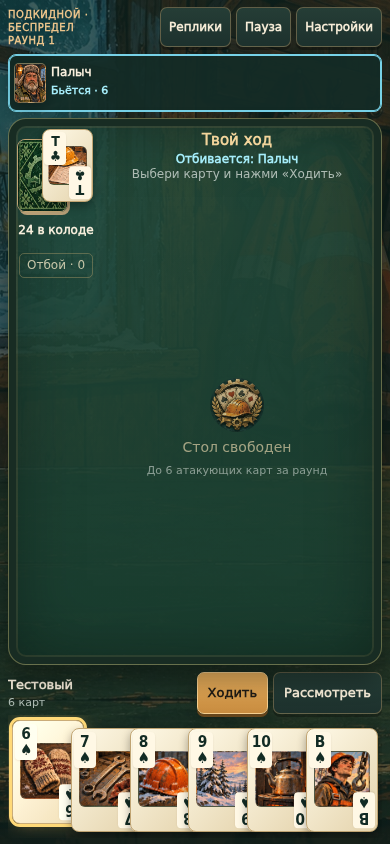
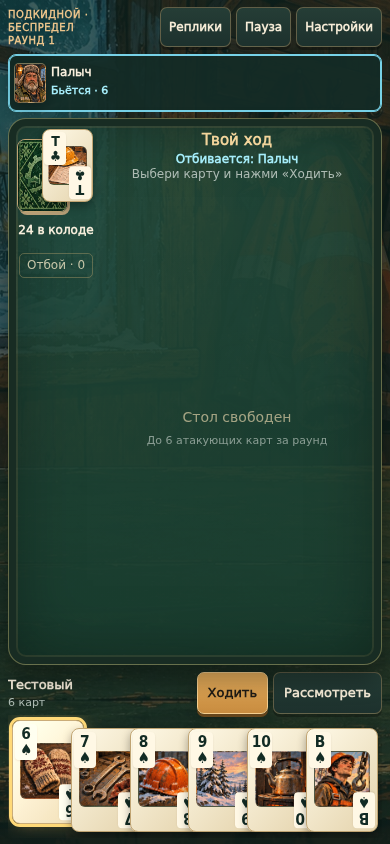
Remove decorative emblem from the empty playing table

Changed region(s): [[0.4615, 0.4313, 0.7385, 0.5853], [0.7692, 0.5545, 0.8308, 0.5853], [0.4, 0.5545, 0.4308, 0.5853]]

diff --git a/public/build/app-2b87c4432cbc4907.js b/public/build/app-2b87c4432cbc4907.js
@@ -2962,7 +2962,7 @@
       )
       .join(
         "",
-      )}</div><section class="table-zone"><aside class="stocks"><div class="stock-pile">${E.stockCount(G) > 0 ? backCard() : ""}${E.stockCount(G) > 0 ? card(G.trumpCard, { classes: "trump-show" }) : `<div class="empty-trump ${G.trump === 1 || G.trump === 2 ? "red" : "black"}" role="img" aria-label="Козырная масть ${E.SUITS[G.trump]}"><span>${E.SUITS[G.trump]}</span></div>`}</div><strong>${E.stockCount(G)} в колоде</strong><div class="discard-target" aria-label="Отбой">Отбой · ${G.discard.length}</div></aside><div class="battle"><div class="turn-label"><strong>${nameRole}<span class="defender-line">${G.defender === 0 ? (G.taking ? "Ты берёшь карты" : "Атакуют тебя") : (G.taking ? "Берёт: " : "Отбивается: ") + name(G.defender)}</span></strong><small>${paused ? "Партия на паузе" : G.phase === "defending" ? (G.actor === 0 ? "Выбери карту в руке и нажми на атакующую карту." : "Защита в процессе") : G.phase === "taking" ? "Подкидывание перед взятием" : G.phase === "adding" ? "Все атакующие могут подкинуть или завершить" : "Выбери карту и нажми «Ходить»"}</small></div><div class="pairs" data-game="${esc(G.gameId)}" data-round="${G.round}">${G.table.length ? G.table.map((pair, i) => `<div class="card-pair">${card(pair.attack, { action: G.actor === 0 && G.phase === "defending" && pair.defense == null ? "cover" : "", extra: `data-pair="${i}"`, classes: pair.defense == null ? "uncovered" : "covered" })}${pair.defense != null ? card(pair.defense, { classes: "defense-card" }) : ""}</div>`).join("") : `<div class="table-empty">${sprite("decor", 4, 4, 3, "table-emblem")}<span>Стол свободен</span><small>До ${G.limit} атакующих карт за раунд</small></div>`}</div><button data-action="talk" data-speaker="${dialog?.who ?? ""}" data-addressee="${dialog?.target ?? ""}" class="speech" aria-label="Прочитать реплику целиком" ${dialog ? "" : "hidden"}>${dialog ? avatar(G.players[dialog.who]?.npc ?? 0, emotion[dialog.who] || 0) : ""}<div><strong>${dialog ? name(dialog.who) + " → " + name(dialog.target) : ""}</strong><p id="dialog-text"></p></div></button></div><aside class="table-log"><h3>Журнал смены</h3><ol id="game-log"></ol><span class="discard-count">В отбое: ${G.discard.length}<br>Списано эффектами: ${G.effectDiscard.length}</span></aside></section><section class="human-zone ${G.defender === 0 ? "defending-player" : ""}"><div class="human-caption">${avatar(P.avatar)}<div><strong>${playerName()}</strong><small>${my.hand.length} карт</small></div><div class="game-actions">${actionButtons}${take ? button("Взять", "take", "danger") : ""}${pass ? button(G.taking ? "Готово" : "Бито", "pass", "primary") : ""}${selected != null ? button("Рассмотреть", "inspect", "small") : ""}${my.out ? '<span class="finished-note">Ты вышел. Бригада доигрывает.</span>' : ""}</div></div><div class="hand" role="group" aria-label="Твои карты" style="--hand-count:${Math.max(6, hand.length)}">${hand.map((c) => card(c, { action: "select-card", selected: c === selected, classes: canAct && !moves.some((a) => a.card === c) ? "not-playable" : "" })).join("")}</div><p class="hand-help">${canAct ? (selected == null ? "Выбери карту. Подсвечены карты с разрешённым действием." : selectedMoves.some((a) => a.type === "defend") ? "Нажми на непокрытую карту на столе, которую хочешь побить." : selectedMoves.length ? "Подтверди действие кнопкой над рукой." : "Эта карта сейчас не подходит. Выбери другую.") : "Можно рассматривать свои карты, пока коллеги ходят."}</p></section></main>`;
+      )}</div><section class="table-zone"><aside class="stocks"><div class="stock-pile">${E.stockCount(G) > 0 ? backCard() : ""}${E.stockCount(G) > 0 ? card(G.trumpCard, { classes: "trump-show" }) : `<div class="empty-trump ${G.trump === 1 || G.trump === 2 ? "red" : "black"}" role="img" aria-label="Козырная масть ${E.SUITS[G.trump]}"><span>${E.SUITS[G.trump]}</span></div>`}</div><strong>${E.stockCount(G)} в колоде</strong><div class="discard-target" aria-label="Отбой">Отбой · ${G.discard.length}</div></aside><div class="battle"><div class="turn-label"><strong>${nameRole}<span class="defender-line">${G.defender === 0 ? (G.taking ? "Ты берёшь карты" : "Атакуют тебя") : (G.taking ? "Берёт: " : "Отбивается: ") + name(G.defender)}</span></strong><small>${paused ? "Партия на паузе" : G.phase === "defending" ? (G.actor === 0 ? "Выбери карту в руке и нажми на атакующую карту." : "Защита в процессе") : G.phase === "taking" ? "Подкидывание перед взятием" : G.phase === "adding" ? "Все атакующие могут подкинуть или завершить" : "Выбери карту и нажми «Ходить»"}</small></div><div class="pairs" data-game="${esc(G.gameId)}" data-round="${G.round}">${G.table.length ? G.table.map((pair, i) => `<div class="card-pair">${card(pair.attack, { action: G.actor === 0 && G.phase === "defending" && pair.defense == null ? "cover" : "", extra: `data-pair="${i}"`, classes: pair.defense == null ? "uncovered" : "covered" })}${pair.defense != null ? card(pair.defense, { classes: "defense-card" }) : ""}</div>`).join("") : `<div class="table-empty"><span>Стол свободен</span><small>До ${G.limit} атакующих карт за раунд</small></div>`}</div><button data-action="talk" data-speaker="${dialog?.who ?? ""}" data-addressee="${dialog?.target ?? ""}" class="speech" aria-label="Прочитать реплику целиком" ${dialog ? "" : "hidden"}>${dialog ? avatar(G.players[dialog.who]?.npc ?? 0, emotion[dialog.who] || 0) : ""}<div><strong>${dialog ? name(dialog.who) + " → " + name(dialog.target) : ""}</strong><p id="dialog-text"></p></div></button></div><aside class="table-log"><h3>Журнал смены</h3><ol id="game-log"></ol><span class="discard-count">В отбое: ${G.discard.length}<br>Списано эффектами: ${G.effectDiscard.length}</span></aside></section><section class="human-zone ${G.defender === 0 ? "defending-player" : ""}"><div class="human-caption">${avatar(P.avatar)}<div><strong>${playerName()}</strong><small>${my.hand.length} карт</small></div><div class="game-actions">${actionButtons}${take ? button("Взять", "take", "danger") : ""}${pass ? button(G.taking ? "Готово" : "Бито", "pass", "primary") : ""}${selected != null ? button("Рассмотреть", "inspect", "small") : ""}${my.out ? '<span class="finished-note">Ты вышел. Бригада доигрывает.</span>' : ""}</div></div><div class="hand" role="group" aria-label="Твои карты" style="--hand-count:${Math.max(6, hand.length)}">${hand.map((c) => card(c, { action: "select-card", selected: c === selected, classes: canAct && !moves.some((a) => a.card === c) ? "not-playable" : "" })).join("")}</div><p class="hand-help">${canAct ? (selected == null ? "Выбери карту. Подсвечены карты с разрешённым действием." : selectedMoves.some((a) => a.type === "defend") ? "Нажми на непокрытую карту на столе, которую хочешь побить." : selectedMoves.length ? "Подтверди действие кнопкой над рукой." : "Эта карта сейчас не подходит. Выбери другую.") : "Можно рассматривать свои карты, пока коллеги ходят."}</p></section></main>`;
   }
   function eventView() {
     const v = F.spec(G);

diff --git a/src/main.js b/src/main.js
@@ -229,7 +229,7 @@
       )
       .join(
         "",
-      )}</div><section class="table-zone"><aside class="stocks"><div class="stock-pile">${E.stockCount(G) > 0 ? backCard() : ""}${E.stockCount(G) > 0 ? card(G.trumpCard, { classes: "trump-show" }) : `<div class="empty-trump ${G.trump === 1 || G.trump === 2 ? "red" : "black"}" role="img" aria-label="Козырная масть ${E.SUITS[G.trump]}"><span>${E.SUITS[G.trump]}</span></div>`}</div><strong>${E.stockCount(G)} в колоде</strong><div class="discard-target" aria-label="Отбой">Отбой · ${G.discard.length}</div></aside><div class="battle"><div class="turn-label"><strong>${nameRole}<span class="defender-line">${G.defender === 0 ? (G.taking ? "Ты берёшь карты" : "Атакуют тебя") : (G.taking ? "Берёт: " : "Отбивается: ") + name(G.defender)}</span></strong><small>${paused ? "Партия на паузе" : G.phase === "defending" ? (G.actor === 0 ? "Выбери карту в руке и нажми на атакующую карту." : "Защита в процессе") : G.phase === "taking" ? "Подкидывание перед взятием" : G.phase === "adding" ? "Все атакующие могут подкинуть или завершить" : "Выбери карту и нажми «Ходить»"}</small></div><div class="pairs" data-game="${esc(G.gameId)}" data-round="${G.round}">${G.table.length ? G.table.map((pair, i) => `<div class="card-pair">${card(pair.attack, { action: G.actor === 0 && G.phase === "defending" && pair.defense == null ? "cover" : "", extra: `data-pair="${i}"`, classes: pair.defense == null ? "uncovered" : "covered" })}${pair.defense != null ? card(pair.defense, { classes: "defense-card" }) : ""}</div>`).join("") : `<div class="table-empty">${sprite("decor", 4, 4, 3, "table-emblem")}<span>Стол свободен</span><small>До ${G.limit} атакующих карт за раунд</small></div>`}</div><button data-action="talk" data-speaker="${dialog?.who ?? ""}" data-addressee="${dialog?.target ?? ""}" class="speech" aria-label="Прочитать реплику целиком" ${dialog ? "" : "hidden"}>${dialog ? avatar(G.players[dialog.who]?.npc ?? 0, emotion[dialog.who] || 0) : ""}<div><strong>${dialog ? name(dialog.who) + " → " + name(dialog.target) : ""}</strong><p id="dialog-text"></p></div></button></div><aside class="table-log"><h3>Журнал смены</h3><ol id="game-log"></ol><span class="discard-count">В отбое: ${G.discard.length}<br>Списано эффектами: ${G.effectDiscard.length}</span></aside></section><section class="human-zone ${G.defender === 0 ? "defending-player" : ""}"><div class="human-caption">${avatar(P.avatar)}<div><strong>${playerName()}</strong><small>${my.hand.length} карт</small></div><div class="game-actions">${actionButtons}${take ? button("Взять", "take", "danger") : ""}${pass ? button(G.taking ? "Готово" : "Бито", "pass", "primary") : ""}${selected != null ? button("Рассмотреть", "inspect", "small") : ""}${my.out ? '<span class="finished-note">Ты вышел. Бригада доигрывает.</span>' : ""}</div></div><div class="hand" role="group" aria-label="Твои карты" style="--hand-count:${Math.max(6, hand.length)}">${hand.map((c) => card(c, { action: "select-card", selected: c === selected, classes: canAct && !moves.some((a) => a.card === c) ? "not-playable" : "" })).join("")}</div><p class="hand-help">${canAct ? (selected == null ? "Выбери карту. Подсвечены карты с разрешённым действием." : selectedMoves.some((a) => a.type === "defend") ? "Нажми на непокрытую карту на столе, которую хочешь побить." : selectedMoves.length ? "Подтверди действие кнопкой над рукой." : "Эта карта сейчас не подходит. Выбери другую.") : "Можно рассматривать свои карты, пока коллеги ходят."}</p></section></main>`;
+      )}</div><section class="table-zone"><aside class="stocks"><div class="stock-pile">${E.stockCount(G) > 0 ? backCard() : ""}${E.stockCount(G) > 0 ? card(G.trumpCard, { classes: "trump-show" }) : `<div class="empty-trump ${G.trump === 1 || G.trump === 2 ? "red" : "black"}" role="img" aria-label="Козырная масть ${E.SUITS[G.trump]}"><span>${E.SUITS[G.trump]}</span></div>`}</div><strong>${E.stockCount(G)} в колоде</strong><div class="discard-target" aria-label="Отбой">Отбой · ${G.discard.length}</div></aside><div class="battle"><div class="turn-label"><strong>${nameRole}<span class="defender-line">${G.defender === 0 ? (G.taking ? "Ты берёшь карты" : "Атакуют тебя") : (G.taking ? "Берёт: " : "Отбивается: ") + name(G.defender)}</span></strong><small>${paused ? "Партия на паузе" : G.phase === "defending" ? (G.actor === 0 ? "Выбери карту в руке и нажми на атакующую карту." : "Защита в процессе") : G.phase === "taking" ? "Подкидывание перед взятием" : G.phase === "adding" ? "Все атакующие могут подкинуть или завершить" : "Выбери карту и нажми «Ходить»"}</small></div><div class="pairs" data-game="${esc(G.gameId)}" data-round="${G.round}">${G.table.length ? G.table.map((pair, i) => `<div class="card-pair">${card(pair.attack, { action: G.actor === 0 && G.phase === "defending" && pair.defense == null ? "cover" : "", extra: `data-pair="${i}"`, classes: pair.defense == null ? "uncovered" : "covered" })}${pair.defense != null ? card(pair.defense, { classes: "defense-card" }) : ""}</div>`).join("") : `<div class="table-empty"><span>Стол свободен</span><small>До ${G.limit} атакующих карт за раунд</small></div>`}</div><button data-action="talk" data-speaker="${dialog?.who ?? ""}" data-addressee="${dialog?.target ?? ""}" class="speech" aria-label="Прочитать реплику целиком" ${dialog ? "" : "hidden"}>${dialog ? avatar(G.players[dialog.who]?.npc ?? 0, emotion[dialog.who] || 0) : ""}<div><strong>${dialog ? name(dialog.who) + " → " + name(dialog.target) : ""}</strong><p id="dialog-text"></p></div></button></div><aside class="table-log"><h3>Журнал смены</h3><ol id="game-log"></ol><span class="discard-count">В отбое: ${G.discard.length}<br>Списано эффектами: ${G.effectDiscard.length}</span></aside></section><section class="human-zone ${G.defender === 0 ? "defending-player" : ""}"><div class="human-caption">${avatar(P.avatar)}<div><strong>${playerName()}</strong><small>${my.hand.length} карт</small></div><div class="game-actions">${actionButtons}${take ? button("Взять", "take", "danger") : ""}${pass ? button(G.taking ? "Готово" : "Бито", "pass", "primary") : ""}${selected != null ? button("Рассмотреть", "inspect", "small") : ""}${my.out ? '<span class="finished-note">Ты вышел. Бригада доигрывает.</span>' : ""}</div></div><div class="hand" role="group" aria-label="Твои карты" style="--hand-count:${Math.max(6, hand.length)}">${hand.map((c) => card(c, { action: "select-card", selected: c === selected, classes: canAct && !moves.some((a) => a.card === c) ? "not-playable" : "" })).join("")}</div><p class="hand-help">${canAct ? (selected == null ? "Выбери карту. Подсвечены карты с разрешённым действием." : selectedMoves.some((a) => a.type === "defend") ? "Нажми на непокрытую карту на столе, которую хочешь побить." : selectedMoves.length ? "Подтверди действие кнопкой над рукой." : "Эта карта сейчас не подходит. Выбери другую.") : "Можно рассматривать свои карты, пока коллеги ходят."}</p></section></main>`;
   }
   function eventView() {
     const v = F.spec(G);

diff --git a/sw.js b/sw.js
@@ -1,6 +1,6 @@
 /* Network first for navigation and assets. A failed connection falls back to this exact release. */
-const BUILD = {"version":"1.7.0","id":"0c842669d4b13d93","html":"index-0c842669d4b13d93.html","js":"public/build/app-0c842669d4b13d93.js","css":"public/build/app-0c842669d4b13d93.css"},
-  FILES = ["index.html","index-0c842669d4b13d93.html","public/build/app-0c842669d4b13d93.js","public/build/app-0c842669d4b13d93.css","public/assets/audio/button.wav?v=0c842669d4b13d93","public/assets/audio/card.wav?v=0c842669d4b13d93","public/assets/audio/cover.wav?v=0c842669d4b13d93","public/assets/audio/deal.wav?v=0c842669d4b13d93","public/assets/audio/event.wav?v=0c842669d4b13d93","public/assets/audio/kettle.wav?v=0c842669d4b13d93","public/assets/audio/music.wav?v=0c842669d4b13d93","public/assets/audio/take.wav?v=0c842669d4b13d93","public/assets/audio/win.wav?v=0c842669d4b13d93","public/assets/audio/wind.wav?v=0c842669d4b13d93","public/assets/cards.webp?v=0c842669d4b13d93","public/assets/decor.webp?v=0c842669d4b13d93","public/assets/events.webp?v=0c842669d4b13d93","public/assets/fonts/LICENSE.txt?v=0c842669d4b13d93","public/assets/fonts/body.ttf?v=0c842669d4b13d93","public/assets/fonts/heading.ttf?v=0c842669d4b13d93","public/assets/npc-extra.webp?v=0c842669d4b13d93","public/assets/npc.webp?v=0c842669d4b13d93","public/assets/room.webp?v=0c842669d4b13d93"];
+const BUILD = {"version":"1.7.1","id":"2b87c4432cbc4907","html":"index-2b87c4432cbc4907.html","js":"public/build/app-2b87c4432cbc4907.js","css":"public/build/app-2b87c4432cbc4907.css"},
+  FILES = ["index.html","index-2b87c4432cbc4907.html","public/build/app-2b87c4432cbc4907.js","public/build/app-2b87c4432cbc4907.css","public/assets/audio/button.wav?v=2b87c4432cbc4907","public/assets/audio/card.wav?v=2b87c4432cbc4907","public/assets/audio/cover.wav?v=2b87c4432cbc4907","public/assets/audio/deal.wav?v=2b87c4432cbc4907","public/assets/audio/event.wav?v=2b87c4432cbc4907","public/assets/audio/kettle.wav?v=2b87c4432cbc4907","public/assets/audio/music.wav?v=2b87c4432cbc4907","public/assets/audio/take.wav?v=2b87c4432cbc4907","public/assets/audio/win.wav?v=2b87c4432cbc4907","public/assets/audio/wind.wav?v=2b87c4432cbc4907","public/assets/cards.webp?v=2b87c4432cbc4907","public/assets/decor.webp?v=2b87c4432cbc4907","public/assets/events.webp?v=2b87c4432cbc4907","public/assets/fonts/LICENSE.txt?v=2b87c4432cbc4907","public/assets/fonts/body.ttf?v=2b87c4432cbc4907","public/assets/fonts/heading.ttf?v=2b87c4432cbc4907","public/assets/npc-extra.webp?v=2b87c4432cbc4907","public/assets/npc.webp?v=2b87c4432cbc4907","public/assets/room.webp?v=2b87c4432cbc4907"];
 const SCOPE = new URL(self.registration.scope).pathname;
 const PREFIX = "durak-vahta-" + SCOPE.replace(/[^a-z0-9]/gi, "_") + "-";
 const CACHE = PREFIX + BUILD.id;

diff --git a/index-2b87c4432cbc4907.html b/index-2b87c4432cbc4907.html
@@ -4,7 +4,7 @@
 <head>
 <meta charset="utf-8">
 <meta name="viewport" content="width=device-width,initial-scale=1,viewport-fit=cover,interactive-widget=resizes-content">
-<meta name="vahta-build" content="0c842669d4b13d93">
+<meta name="vahta-build" content="2b87c4432cbc4907">
 <meta name="theme-color" content="#162c29">
 <meta http-equiv="Cache-Control" content="no-cache, no-store, must-revalidate">
 <title>Дурак на вахте</title>
@@ -13,7 +13,7 @@
 <body>
 <div id="app"></div><div id="overlay"></div><div id="toast" role="status" aria-live="polite"></div>
 <div id="boot" role="status"><span>Загрузка игры…</span></div>
-<script>window.VahtaBuild={"version":"1.7.0","id":"0c842669d4b13d93","html":"index-0c842669d4b13d93.html","js":"public/build/app-0c842669d4b13d93.js","css":"public/build/app-0c842669d4b13d93.css"};
+<script>window.VahtaBuild={"version":"1.7.1","id":"2b87c4432cbc4907","html":"index-2b87c4432cbc4907.html","js":"public/build/app-2b87c4432cbc4907.js","css":"public/build/app-2b87c4432cbc4907.css"};
 /* Revalidate before starting any game code. Offline fallback never mixes releases. */
 (async function () {
   "use strict";

diff --git a/index.html b/index.html
@@ -4,7 +4,7 @@
 <head>
 <meta charset="utf-8">
 <meta name="viewport" content="width=device-width,initial-scale=1,viewport-fit=cover,interactive-widget=resizes-content">
-<meta name="vahta-build" content="0c842669d4b13d93">
+<meta name="vahta-build" content="2b87c4432cbc4907">
 <meta name="theme-color" content="#162c29">
 <meta http-equiv="Cache-Control" content="no-cache, no-store, must-revalidate">
 <title>Дурак на вахте</title>
@@ -13,7 +13,7 @@
 <body>
 <div id="app"></div><div id="overlay"></div><div id="toast" role="status" aria-live="polite"></div>
 <div id="boot" role="status"><span>Загрузка игры…</span></div>
-<script>window.VahtaBuild={"version":"1.7.0","id":"0c842669d4b13d93","html":"index-0c842669d4b13d93.html","js":"public/build/app-0c842669d4b13d93.js","css":"public/build/app-0c842669d4b13d93.css"};
+<script>window.VahtaBuild={"version":"1.7.1","id":"2b87c4432cbc4907","html":"index-2b87c4432cbc4907.html","js":"public/build/app-2b87c4432cbc4907.js","css":"public/build/app-2b87c4432cbc4907.css"};
 /* Revalidate before starting any game code. Offline fallback never mixes releases. */
 (async function () {
   "use strict";

diff --git a/public/build/app-2b87c4432cbc4907.css b/public/build/app-2b87c4432cbc4907.css
@@ -1,10 +1,10 @@
 @font-face {
   font-family: Vahta;
-  src: url("../../public/assets/fonts/heading.ttf?v=0c842669d4b13d93");
+  src: url("../../public/assets/fonts/heading.ttf?v=2b87c4432cbc4907");
 }
 @font-face {
   font-family: Local;
-  src: url("../../public/assets/fonts/body.ttf?v=0c842669d4b13d93");
+  src: url("../../public/assets/fonts/body.ttf?v=2b87c4432cbc4907");
 }
 * {
   box-sizing: border-box;
@@ -21,14 +21,14 @@ body {
   line-height: 1.5;
   background:
     linear-gradient(90deg, rgba(11, 26, 25, 0.9), rgba(11, 26, 25, 0.28)),
-    url("../../public/assets/room.webp?v=0c842669d4b13d93") center/cover fixed;
+    url("../../public/assets/room.webp?v=2b87c4432cbc4907") center/cover fixed;
   min-height: 100vh;
 }
 body[data-screen="game"],
 body[data-screen="results"] {
   background:
     linear-gradient(#102722bd, #102722b0),
-    url("../../public/assets/room.webp?v=0c842669d4b13d93") center/cover fixed;
+    url("../../public/assets/room.webp?v=2b87c4432cbc4907") center/cover fixed;
 }
 button,
 input,
